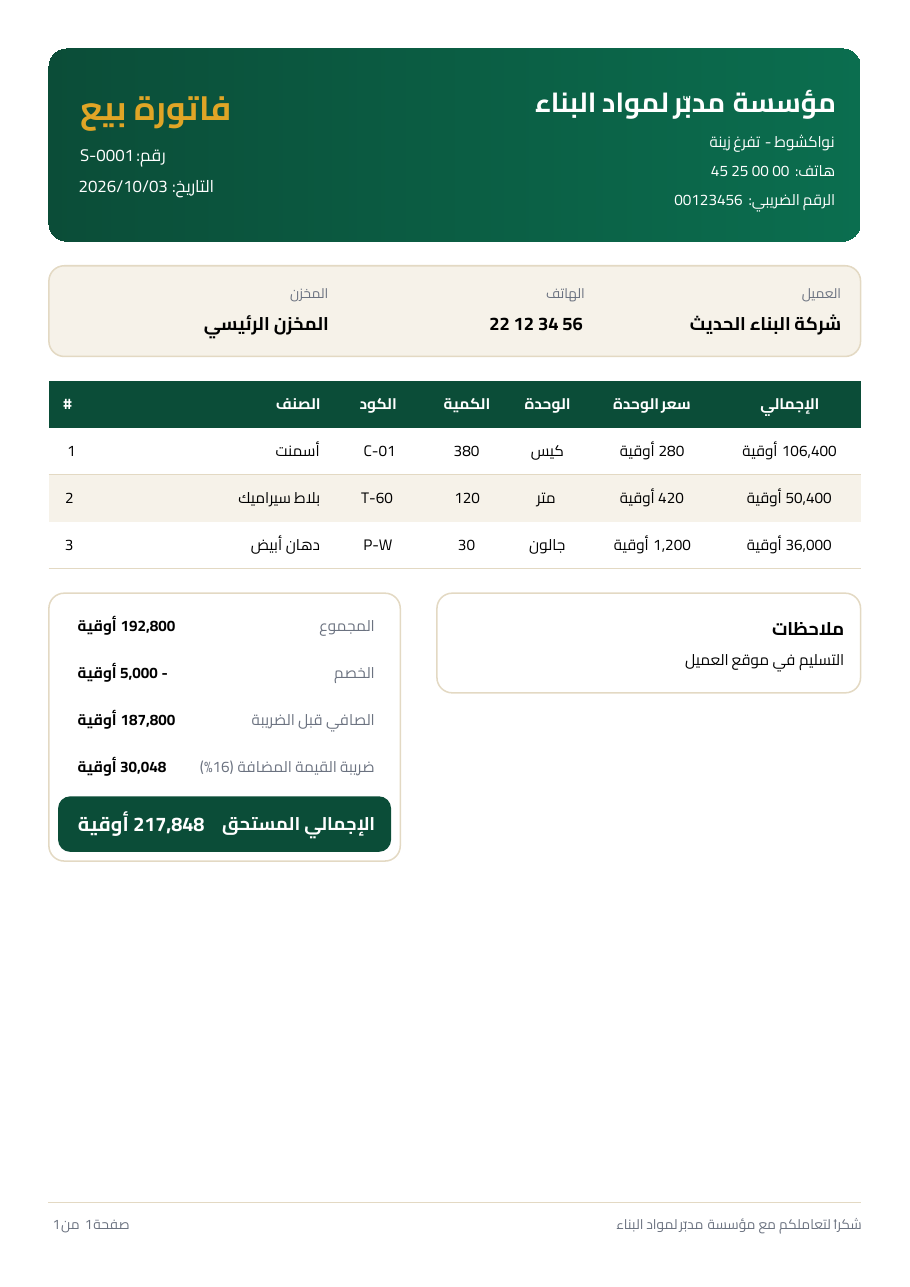
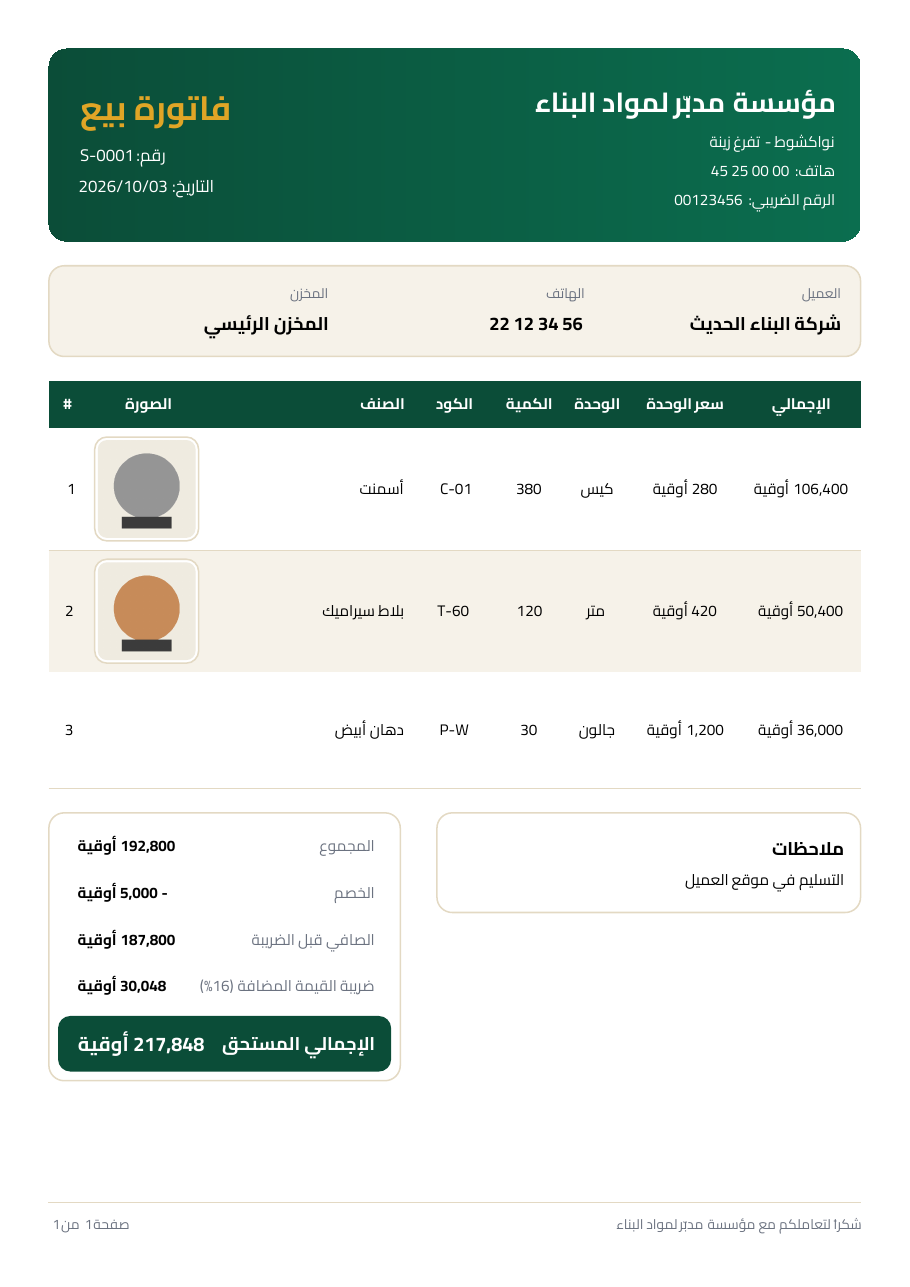
Show product images at a medium size in invoice PDFs
Product images in the PDF items table grow from 34pt to 64pt inside a
rounded frame matching the invoice styling. Uploaded images are now
kept at up to 480px so they stay sharp when printed at that size.

Claude-Session: https://claude.ai/code/session_01X9Xt23fqdrjn1yncKBRNLD

diff --git a/lib/pdf/invoice_pdf.dart b/lib/pdf/invoice_pdf.dart
@@ -174,16 +174,25 @@ pw.Widget _linesTable(Invoice inv, Product? Function(String) productOf) {
   // عمود الصور يظهر فقط إذا كان لأحد أصناف الفاتورة صورة.
   final withImages = products.any((p) => p?.image != null);
 
+  const imageSize = 64.0;
   pw.Widget thumb(Product? p) => p?.image == null
-      ? pw.SizedBox(width: 34, height: 34)
-      : pw.ClipRRect(
-          horizontalRadius: 4,
-          verticalRadius: 4,
-          child: pw.Image(
-            pw.MemoryImage(productImageBytes(p!.image!)),
-            width: 34,
-            height: 34,
-            fit: pw.BoxFit.cover,
+      ? pw.SizedBox(width: imageSize, height: imageSize)
+      : pw.Container(
+          padding: const pw.EdgeInsets.all(2),
+          decoration: pw.BoxDecoration(
+            color: PdfColors.white,
+            border: pw.Border.all(color: _border),
+            borderRadius: const pw.BorderRadius.all(pw.Radius.circular(8)),
+          ),
+          child: pw.ClipRRect(
+            horizontalRadius: 6,
+            verticalRadius: 6,
+            child: pw.Image(
+              pw.MemoryImage(productImageBytes(p!.image!)),
+              width: imageSize,
+              height: imageSize,
+              fit: pw.BoxFit.cover,
+            ),
           ),
         );
 
@@ -212,7 +221,7 @@ pw.Widget _linesTable(Invoice inv, Product? Function(String) productOf) {
   ];
   final widths = <pw.TableColumnWidth>[
     const pw.FixedColumnWidth(24),
-    if (withImages) const pw.FixedColumnWidth(46),
+    if (withImages) const pw.FixedColumnWidth(imageSize + 16),
     const pw.FlexColumnWidth(3),
     const pw.FlexColumnWidth(1.2),
     const pw.FlexColumnWidth(1),

diff --git a/lib/utils/product_image.dart b/lib/utils/product_image.dart
@@ -5,7 +5,7 @@ import 'package:file_picker/file_picker.dart';
 import 'package:image/image.dart' as img;
 
 /// أقصى طول لضلع صورة الصنف بعد التصغير.
-const productImageMaxSide = 320;
+const productImageMaxSide = 480;
 
 /// يصغّر الصورة ويحوّلها إلى JPEG بترميز base64 لتُحفظ مع الصنف.
 /// يُرجع null إذا لم تكن البيانات صورة صالحة.

diff --git a/README.md b/README.md
@@ -52,7 +52,7 @@
   لا تُحذف فاتورة شراء إذا كانت كمياتها قد بيعت أو صُرفت.
 - حركات الفواتير ومعاملاتها لا تُعدَّل من شاشتي المخازن والمعاملات، بل من الفاتورة نفسها.
 - **صور الأصناف:** في الفاتورة تظهر صورة كل صنف بجانب سطره، والضغط عليها يرفع صورة أو يغيّرها قبل حفظ الفاتورة
-  (ويمكن ذلك أيضاً من تبويب **الأصناف**). تُصغَّر الصورة تلقائياً إلى 320 بكسل بصيغة JPEG وتُحفظ مع الصنف،
+  (ويمكن ذلك أيضاً من تبويب **الأصناف**). تُصغَّر الصورة تلقائياً إلى 480 بكسل بصيغة JPEG وتُحفظ مع الصنف،
   وتظهر في جدول فاتورة PDF.
 - زر **PDF** يفتح معاينة الفاتورة، ومنها **طباعة** أو **تنزيل PDF**. على الويب يُنزَّل الملف مباشرة،
   وعلى الجوال تفتح قائمة المشاركة (واتساب، بريد، حفظ في الملفات…).
